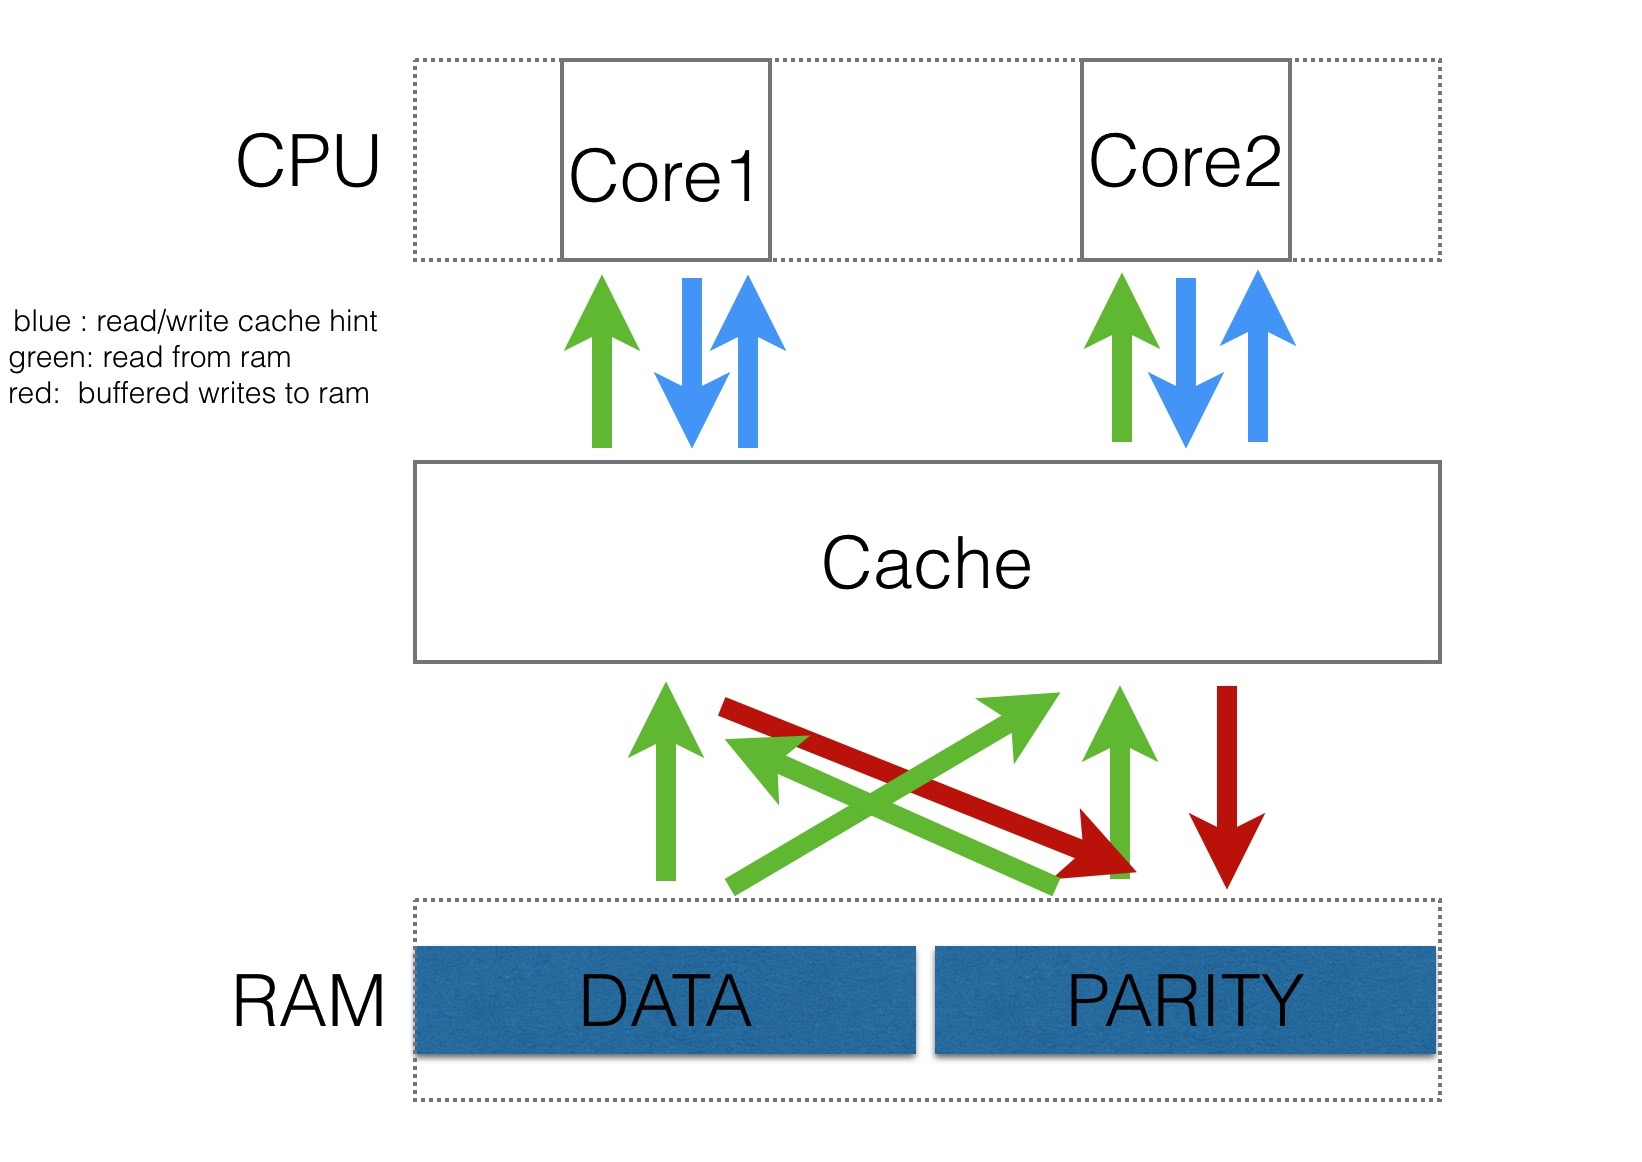
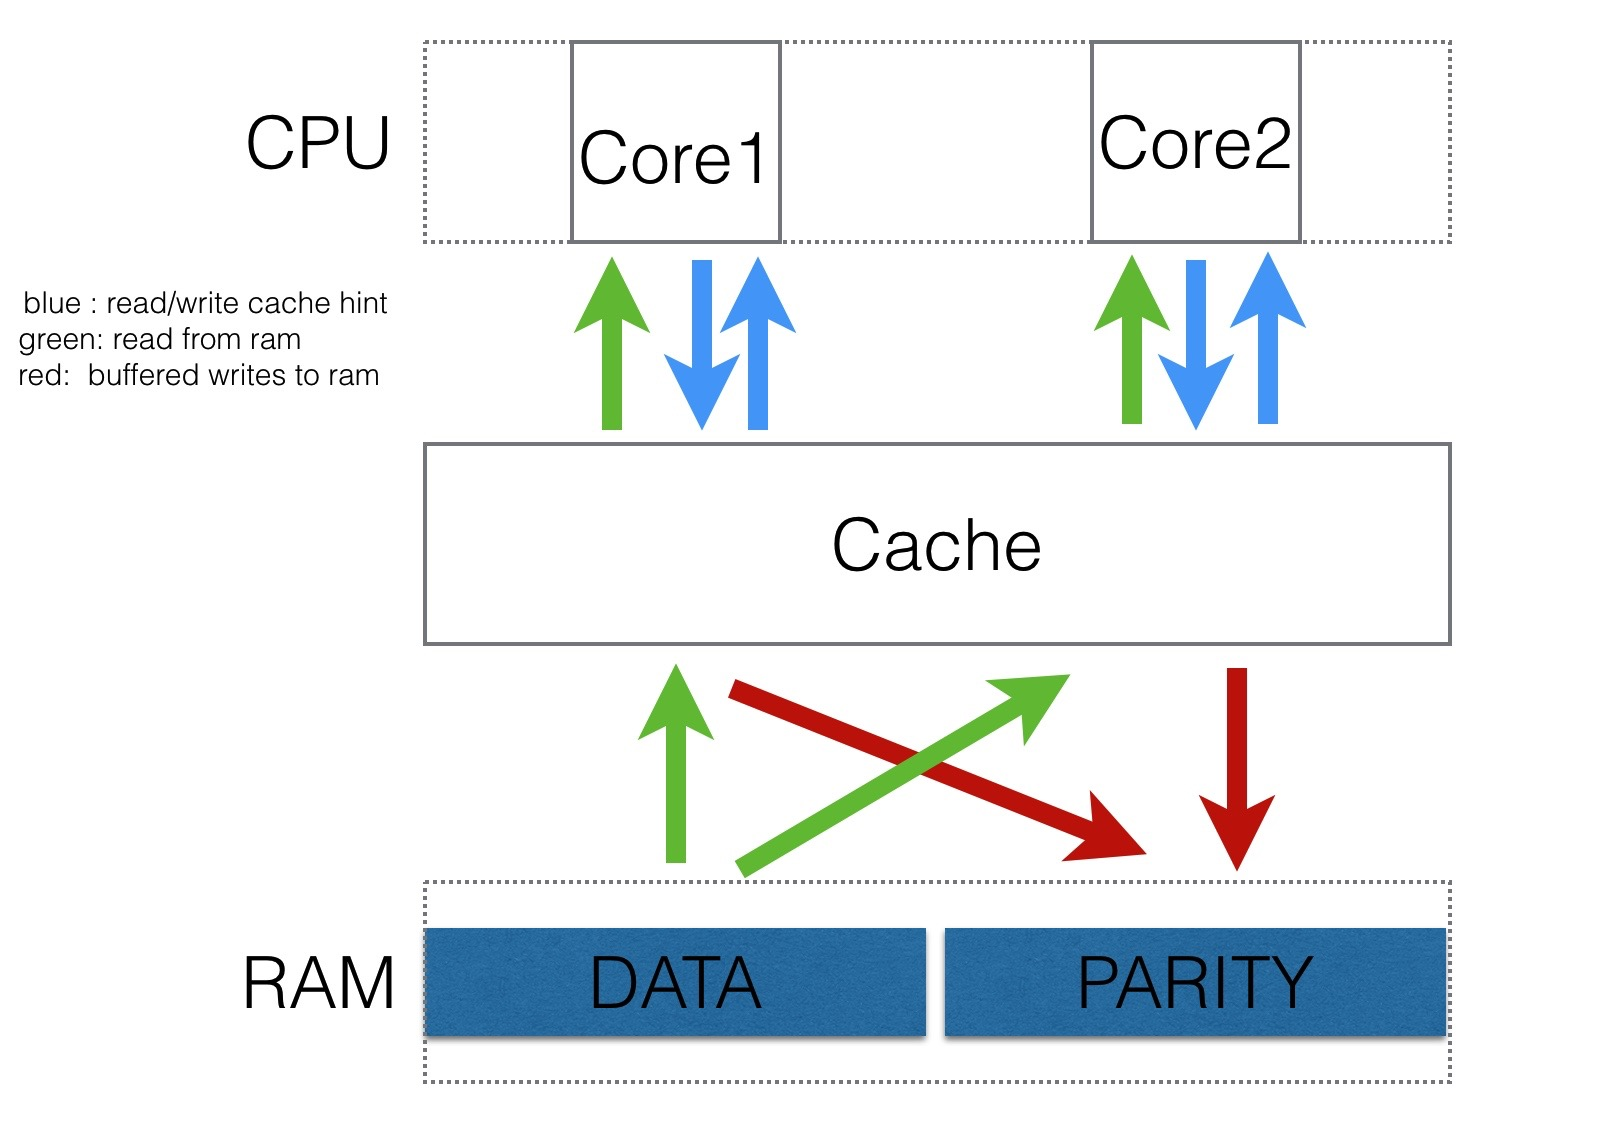
更新io图表

diff --git a/blog/101/reedsolomon.html b/blog/101/reedsolomon.html
@@ -34,7 +34,9 @@
     <p>我们还需要知道矩阵运算的基本常识，基本上掌握矩阵的乘法，矩阵求逆，行列式的概念就足以应付了。我在这里推荐<<程序员的数学:线性代数>>这一书，尤其需要注意的知识点是Gauss-Jordan方法，这一方法也是目前代码中用来求逆矩阵的方法（由于我们使用的矩阵比较特殊，个人觉得求逆还可以再优化）</p>
     <p>有了矩阵的基础，我们对选择编码矩阵也有了基本的认识，无非就是要保证线性无关和任意子矩阵可逆。我在代码中使用的是Cauchy matrix,生成的算法参考了Intel的ISA-L库。我们不能直接使用Vandermonde matrix，具体的原因我有在互联网世界的某一个角落的中提到。不过我认为如果掌握了上面的知识，大家也可以得到这个结论。</p>
     <p>数学的部分基本讲完了，还有一点数学知识是和优化相关的。其实非常的简单而优雅，寥寥几句就可以阐明核心,但我还是推荐大家读一下论文<a href="http://www.kaymgee.com/Kevin_Greenan/Publications_files/plank-fast2013.pdf">Screaming Fast Galois Field Arithmetic Using Intel SIMD Instructions</a></p>
-    <p>其加速的原理就是讲一个byte以4bit为界限拆分成左右两个部分，每一个4byte的乘法表只有16byte的长度，正好可以塞进XMM寄存器里。对于YMM寄存器，我们则可以通过复制塞两张表进去。</p>
+    <p>其加速的基本原理就是将一个byte以4bit为界限拆分成左右两个部分从而达到压缩乘法表的目的，如下图所示：</p>
+    <img src="http://templex.xyz/images/reedsolomon/leftright.jpg" width="80%">
+    <p>每一个4byte的乘法表只有16byte的长度，正好可以塞进XMM寄存器里。对于YMM寄存器，我们则可以通过复制塞两张表进去。</p>
     <p>然后利用CPU提供的指令，以数据为MASK，对表进行重新排序，然后异或左右两个部分的值我们就得到了编码后的结果了。</p>
     <h3>代码分析</h3>
     <p>代码量很少，除去测试和表，总计500行不到。再抛开上层的业务逻辑，核心部分只有分片并发和使用SIMD技术的汇编代码。</p>
